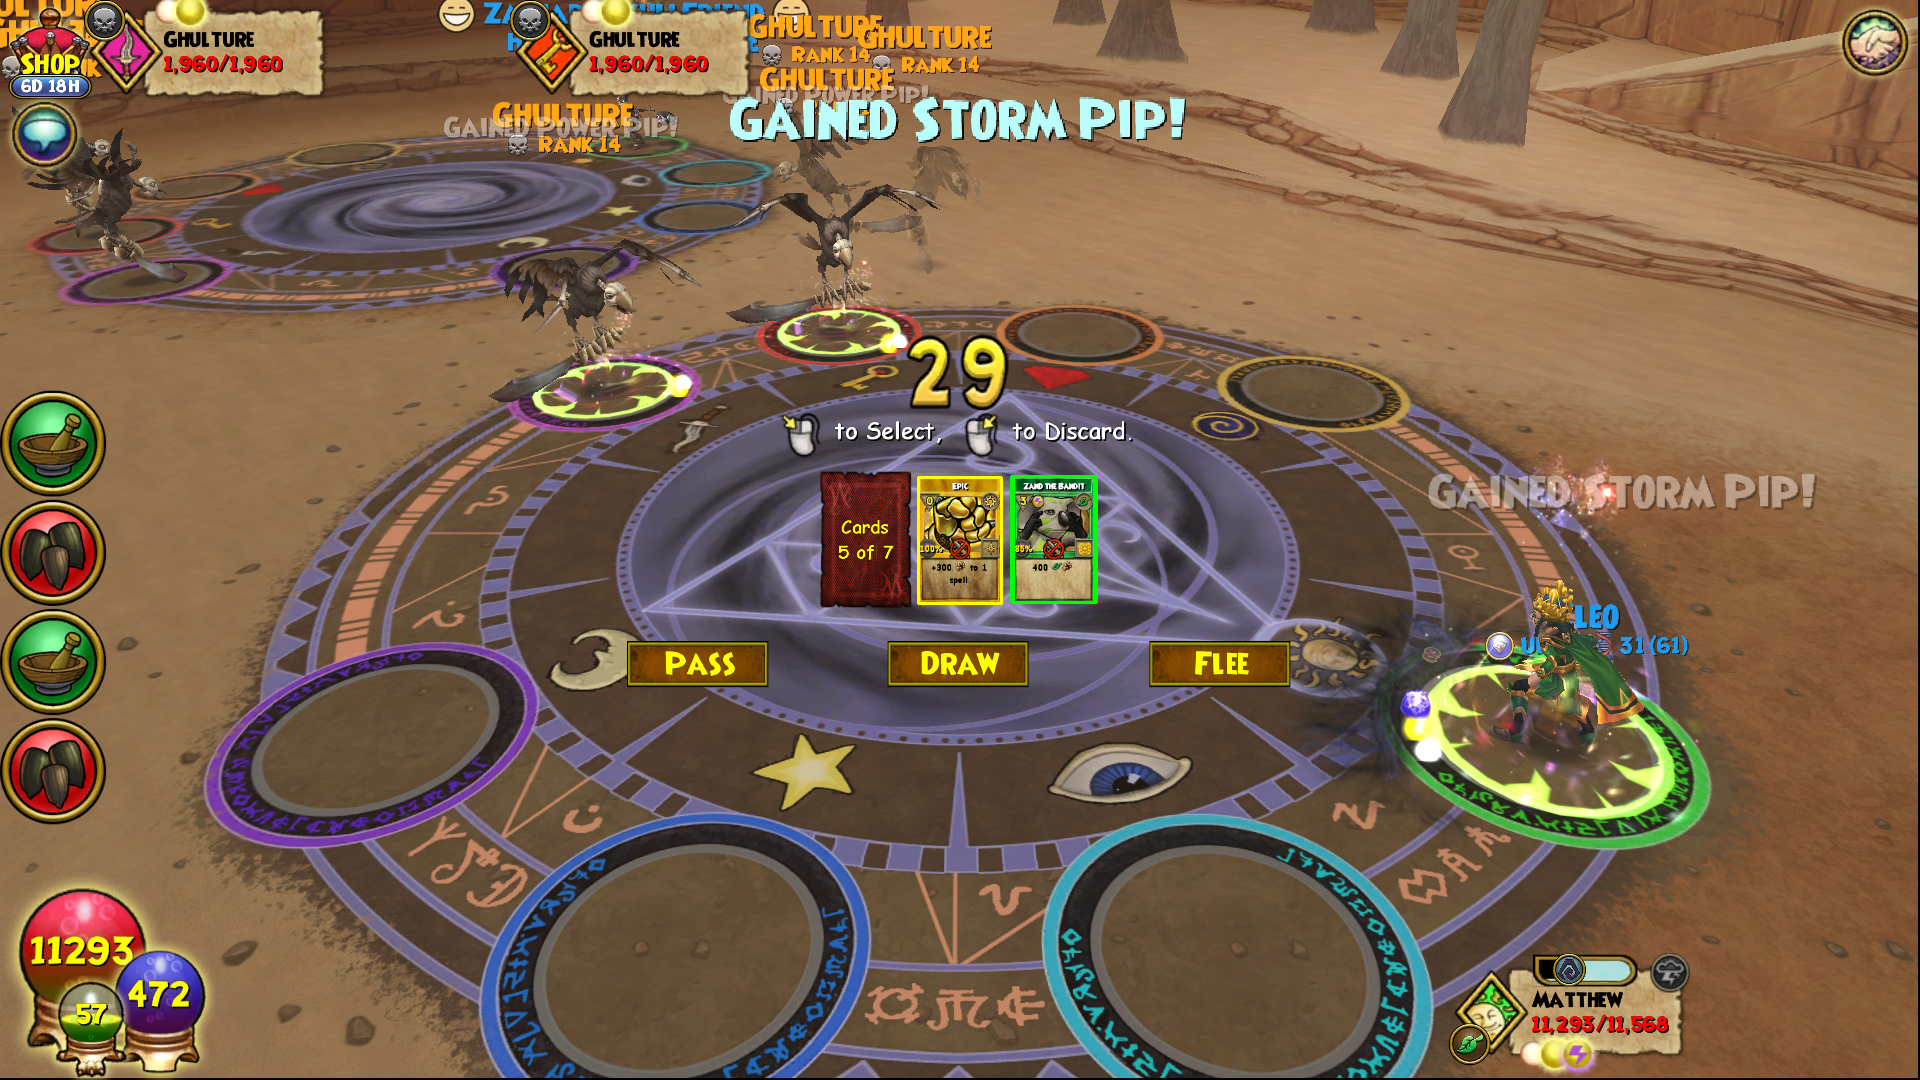
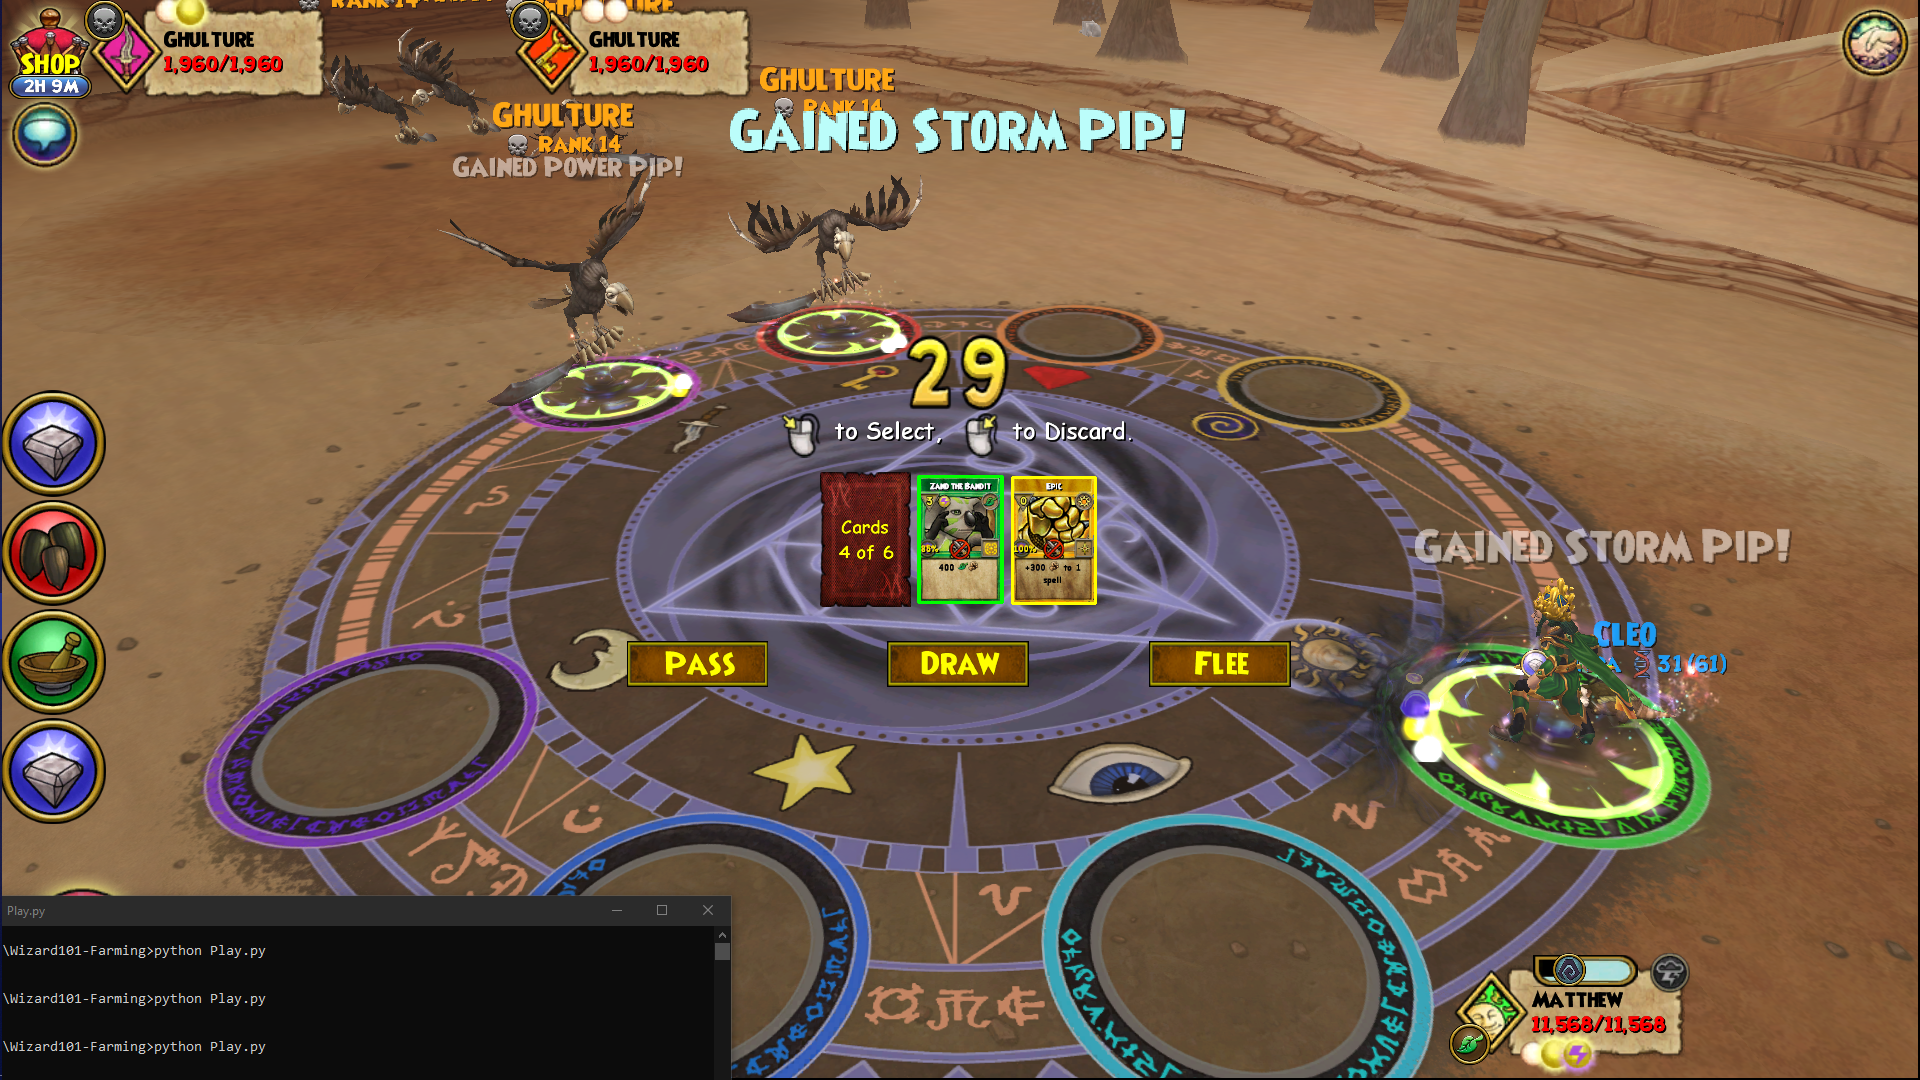
Added ability to detect spells from the Game itself

diff --git a/Play.py b/Play.py
@@ -5,6 +5,7 @@ import mouse
 import time
 import threading
 import pygetwindow as gw
+import pyautogui
 
 
 threshold = .8
@@ -29,7 +30,12 @@ def Play_Round():
     #Enchant(positions[0],positions[1])
 
 def Get_Cards():
-    menu = cv2.imread('Menu.png')
+    w = gw.getWindowsWithTitle("Wizard101")[0]
+    # activate the window
+    w.activate()
+    img = pyautogui.screenshot(region=(w.left, w.top, w.width, w.height))
+    menu = cv2.cvtColor(np.array(img), cv2.COLOR_RGB2BGR)
+    #menu = cv2.imread('Menu.png')
     enchant = cv2.imread('Epic.png')
     attack = cv2.imread('Zand_the_Bandit.png')
     cards = [[enchant,yellow],[attack,green]]
@@ -44,8 +50,6 @@ def Get_Cards():
             locations.append([point, (point[0] + card_width, point[1] + card_height)])
     
     cv2.imwrite('result.png', menu)
-    cv2.imshow('Result',menu)
-    cv2.waitKey(0)
     
     return locations
 '''
@@ -97,17 +101,18 @@ def Record():
 '''
 
 #recording_thread = threading.Thread(target=Record, args=())
-playing_thread = threading.Thread(target=Get_Cards, args=())
+#playing_thread = threading.Thread(target=Get_Cards, args=())
 #recording_thread.start()
-playing_thread.start()
+#playing_thread.start()
+Play_Round()
 
-
-
+'''
 try:
     while True:
         time.sleep(.1)
 except KeyboardInterrupt:
     stop_threads = True
     #recording_thread.join()
-    playing_thread.join()
+    #playing_thread.join()
     print("Program terminated")
+'''
